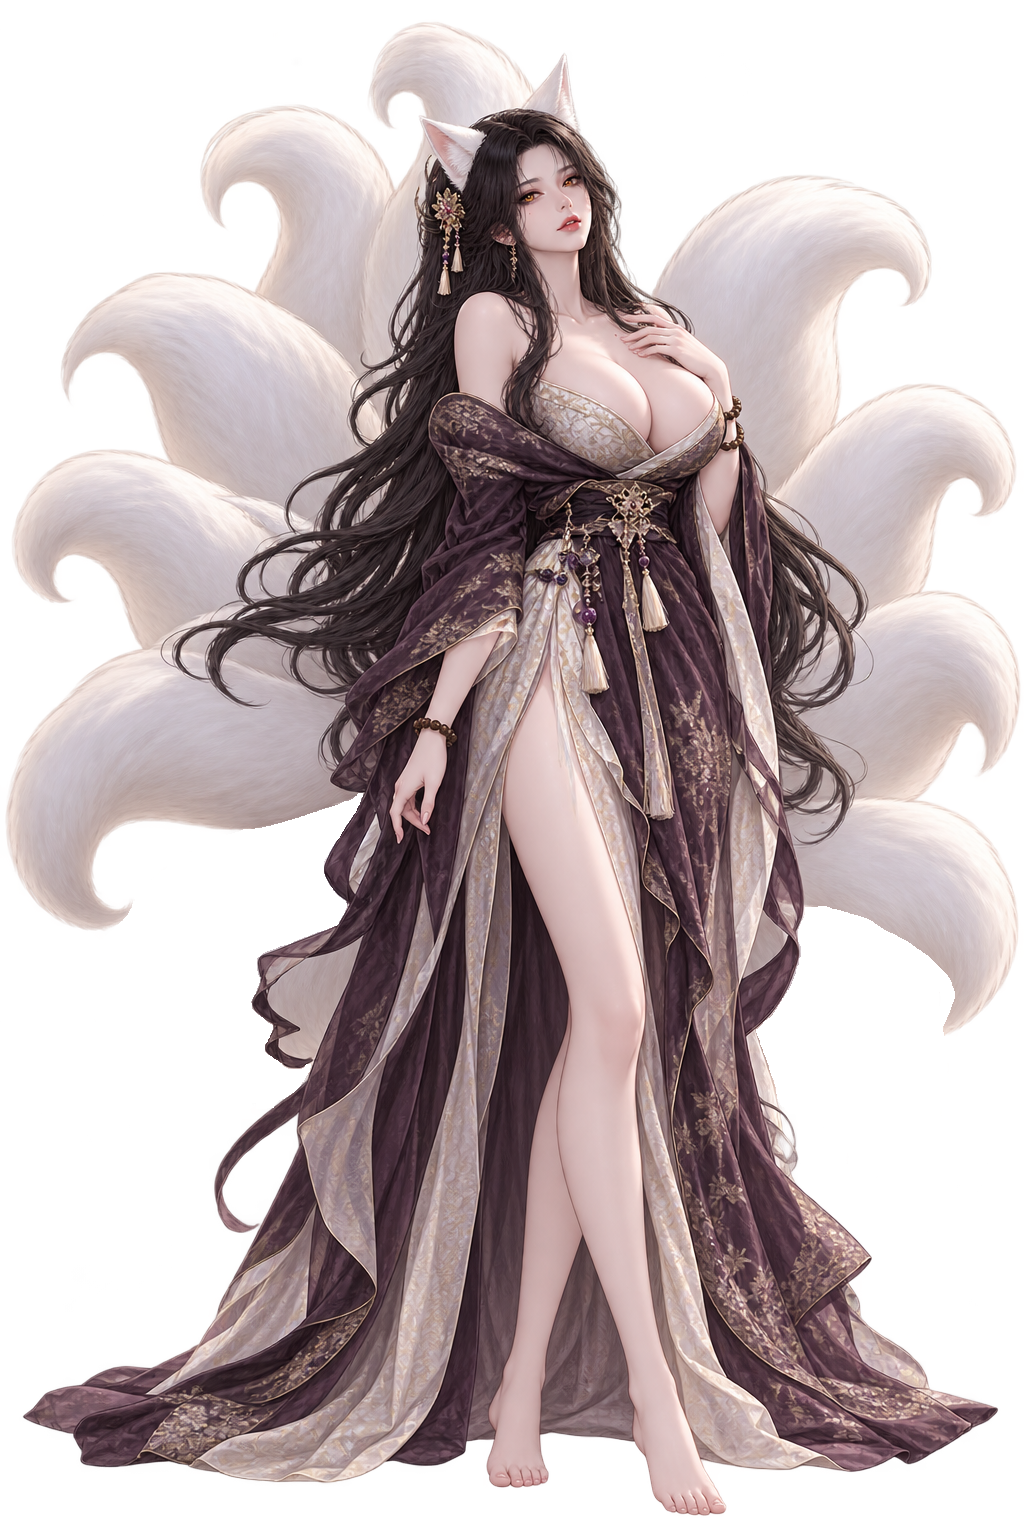
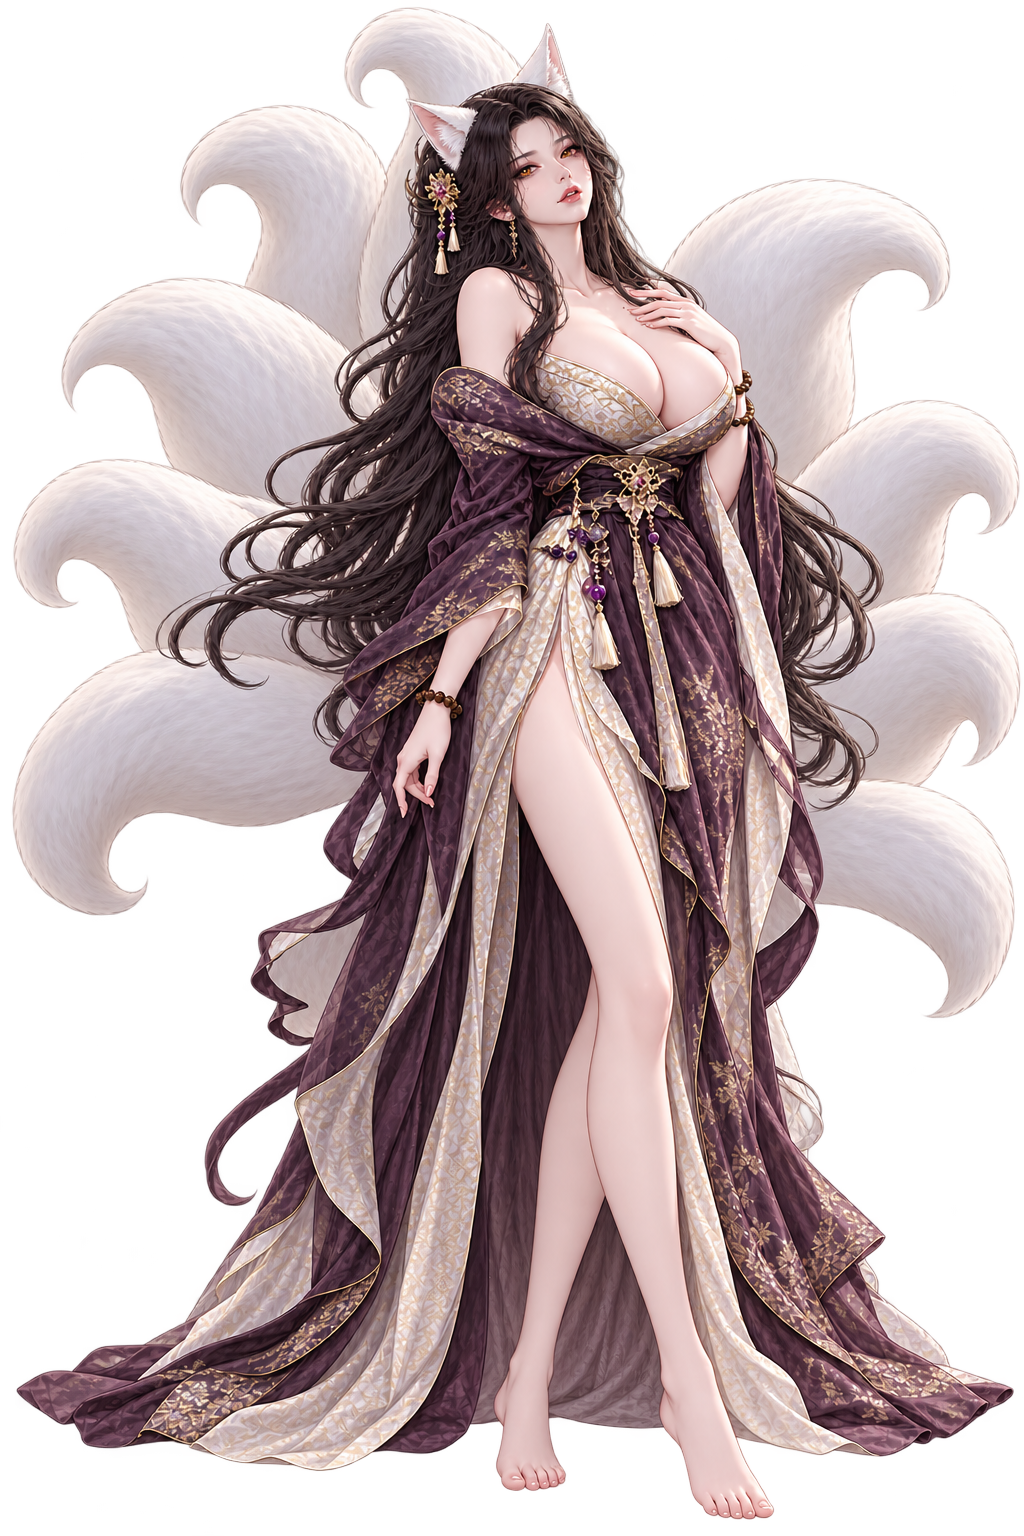
docs: 更新角色卡立绘

diff --git a/README/presets.md b/README/presets.md
@@ -34,8 +34,9 @@ She has amber fox eyes, cool fingertips, and an intensely warm embrace. She fear
 
 ## NingXi
 
-<!-- TODO: replace with img/ningxi.png once the portrait is ready -->
-<p align="center"><em>Character portrait pending · img/ningxi.png</em></p>
+<p align="center">
+  <img src="img/ningxi.png" alt="NingXi character portrait" width="420">
+</p>
 
 <p align="center"><em>Freelance writer · NingXi</em></p>
 

diff --git a/README/presets.zh_CN.md b/README/presets.zh_CN.md
@@ -34,8 +34,9 @@
 
 ## 宁汐 · NingXi
 
-<!-- TODO: 立绘完成后替换为 img/ningxi.png -->
-<p align="center"><em>角色立绘待补 · img/ningxi.png</em></p>
+<p align="center">
+  <img src="img/ningxi.png" alt="宁汐角色立绘" width="420">
+</p>
 
 <p align="center"><em>自由撰稿人 · 宁汐</em></p>
 
